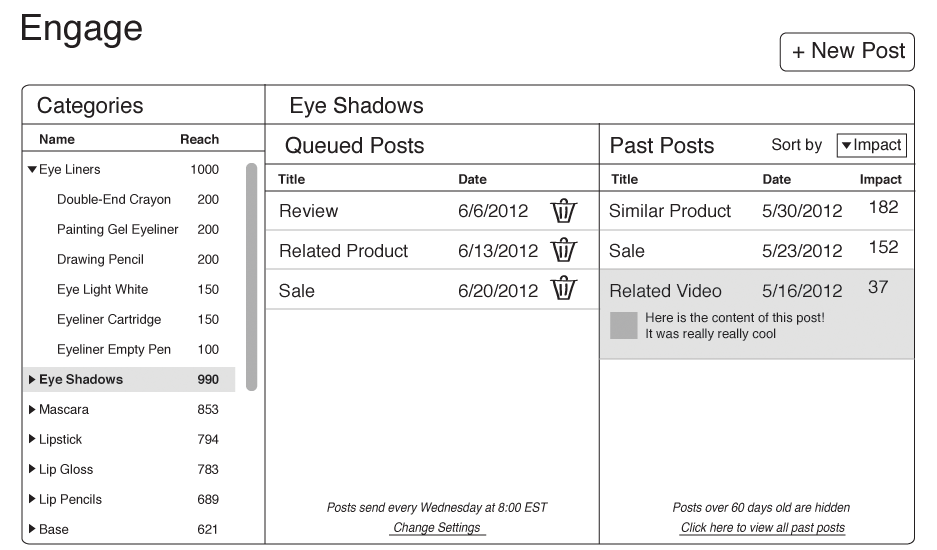
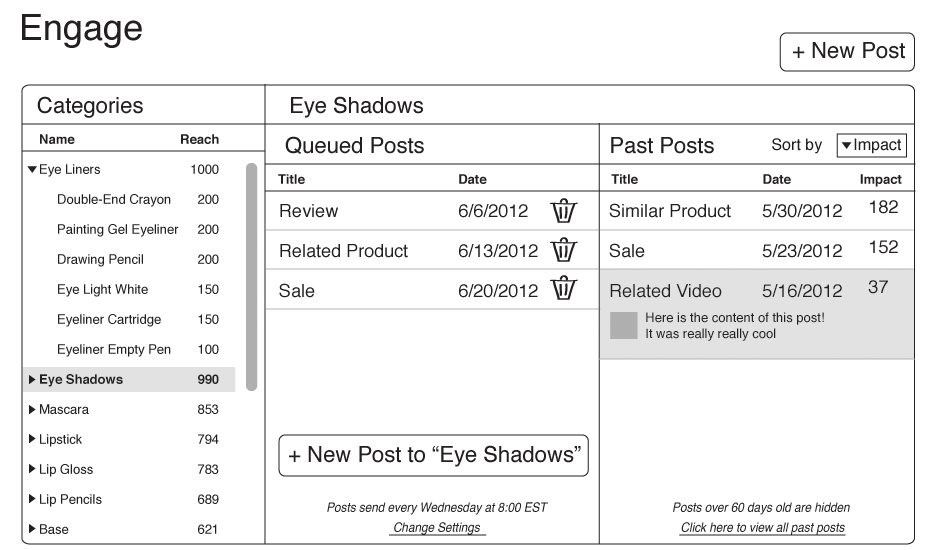
[#30300647] Made URLs dynamic
- Also re-placed button on mock control panel

Changed region(s): [[0.3095, 0.7727, 0.619, 0.8655]]

diff --git a/apps/reengage/templates/product.html b/apps/reengage/templates/product.html
@@ -3,14 +3,14 @@
 <html lang="en" xml:lang="en" xmlns="http://www.w3.org/1999/xhtml" xmlns:fb="http://www.facebook.com/2008/fbml" xmlns:og="http://ogp.me/ns#">
 <head>
     <title>Example Product</title>
-    <link href="http://dev.willet-nterwoord.appspot.com/reengage/product" rel="canonical" />
+    <link href="{{ DOMAIN }}{% url ReEngageProduct %}" rel="canonical" />
     <meta property="fb:app_id" content="211970025590862">
     <meta property="og:type" content="product">
     <meta property="og:site_name" content="ShopCo"/>
     <meta property="og:title" content="Eye Shadow" />
     <meta property="og:description" content="precious colors and radiance in the limited-edition refillable custom case. colors are inspired by the breath of fresh air and the embrace of warm light found in the spring season." />
-    <meta property="og:url" content="http://dev.willet-nterwoord.appspot.com/reengage/product">
-    <meta property="og:image" content="http://dev.willet-nterwoord.appspot.com/reengage/static/imgs/demo/product.png">
+    <meta property="og:url" content="{{ DOMAIN }}{% url ReEngageProduct %}">
+    <meta property="og:image" content="{{ DOMAIN }}/static/imgs/demo/product.png">
 
     <style type="text/css">
         body {
@@ -48,6 +48,7 @@
     }(document, 'script', 'facebook-jssdk'));
 </script>
 <div id="product">Eye Shadow</div>
-<div class="fb-like" data-href="http://dev.willet-nterwoord.appspot.com/reengage/product" data-send="false" data-layout="button_count" data-width="450" data-show-faces="false"></div>
+<div class="fb-like" data-href="{{ DOMAIN }}{% url ReEngageProduct %}"
+     data-send="false" data-layout="button_count" data-width="450" data-show-faces="false"></div>
 </body>
 </html>

diff --git a/apps/reengage/templates/control_panel.html b/apps/reengage/templates/control_panel.html
@@ -10,11 +10,11 @@
 
             button {
                 position: absolute;
-                top: 30px;
-                left: 778px;
+                top: 432px;
+                left: 278px;
                 height: 45px;
                 display: block;
-                width: 137px;
+                width: 311px;
             }
         </style>
         <script src="/static/js/jquery.min.js" type="text/javascript" charset="utf-8"></script>
@@ -28,6 +28,6 @@
     </head>
 
     <body>
-        <button id="new">+ New Post</button>
+        <button id="new">+ New Post to "Eye Shadows"</button>
     </body>
 </html>

diff --git a/apps/reengage/templates/fb.html b/apps/reengage/templates/fb.html
@@ -57,7 +57,7 @@
         <button id="back">&lt; Back to Control Panel</button>
         <form method="POST" action="/reengage/post">
             <input type="hidden" name="url"
-                   value="http://dev.willet-nterwoord.appspot.com/reengage/product"/>
+                   value="{{ DOMAIN }}{% url ReEngageProduct %}"/>
 
             <textarea rows="6" cols="20" id="message"
                       name="message"></textarea>

diff --git a/apps/reengage/views.py b/apps/reengage/views.py
@@ -102,13 +102,16 @@ class ReEngageControlPanel(URIHandler):
 
 class ReEngageProduct(URIHandler):
     def get(self):
-        self.response.out.write(self.render_page('product.html', {}))
+        self.response.out.write(self.render_page('product.html', {
+            "DOMAIN": self.request.host_url
+        }))
 
 class ReEngageFacebook(URIHandler):
     def get(self):
         message = self.request.get("message", "")
         template_values = {
-            "message": message
+            "message": message,
+            "DOMAIN": self.request.host_url
         }
         self.response.out.write(self.render_page('fb.html', template_values))
 
